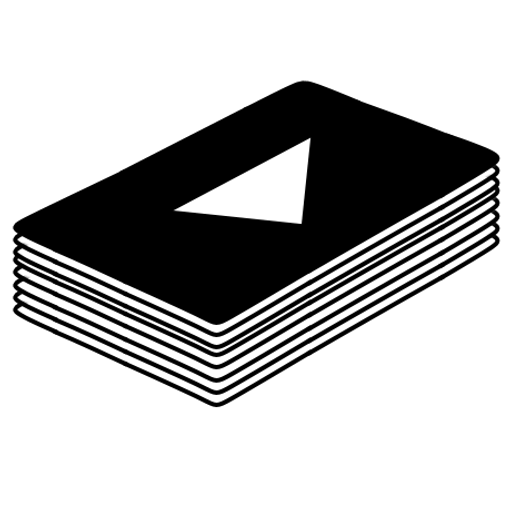
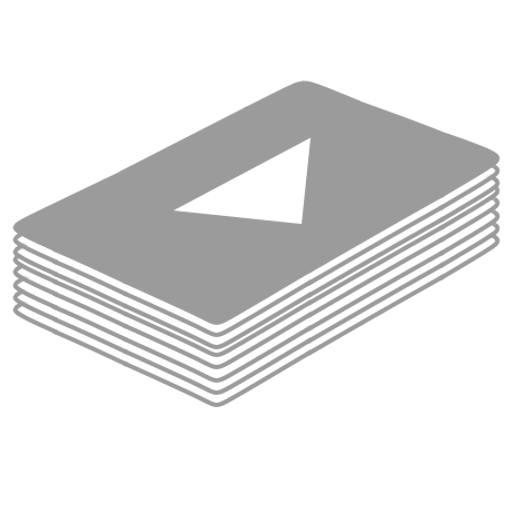
Changed images to be more clear

Changed region(s): [[0.0, 0.1562, 1.0, 0.8125]]

diff --git a/files/styles/StyleMain.css b/files/styles/StyleMain.css
@@ -57,16 +57,44 @@ Z-Indices
 	align-items: center;
 }
 
-#TAB_VIDEO {
-	background-image: url("../res/img/Video_Pause.png");
+#TAB_VIDEO.Playing {
+	background-image: url("../res/img/Video_Play.png");
+}
+
+#TAB_VIDEO.Playing:hover {
+	background-image: url("../res/img/Video_Play_Hover.png");
+}
+
+#TAB_VIDEO.Playing + .TooltipBase::after {
+	content: "Playing";
+}
+
+#TAB_VIDEO.Paused {
+	background-image: url("../res/img/Video_Paused.png");
+}
+
+#TAB_VIDEO.Paused:hover {
+	background-image: url("../res/img/Video_Paused_Hover.png");
+}
+
+#TAB_VIDEO.Paused + .TooltipBase::after {
+	content: "Paused";
 }
 
 #TAB_PLAYLIST {
 	background-image: url("../res/img/Playlist.png");
 }
 
+#TAB_PLAYLIST:hover {
+	background-image: url("../res/img/Playlist_Hover.png");
+}
+
 #TAB_SETTINGS {
 	background-image: url("../res/img/Settings.png");
+}
+
+#TAB_SETTINGS:hover {
+	background-image: url("../res/img/Settings_Hover.png");
 }
 
 .TooltipContainer {
@@ -90,7 +118,7 @@ Z-Indices
 	white-space: nowrap;
 }
 
-.TooltipBase::after {
+.TooltipBase::before {
 	content: " ";
 	position: absolute;
 	border-width: 0.2rem;
@@ -103,10 +131,10 @@ Z-Indices
 	left: 105%;
 }
 
-.TooltipRight::after {
+.TooltipRight::before {
 	top: 50%;
 	right: 100%;
-	margin-top: -0.2rem; /* Negative of .TooltipBase::after border-width */
+	margin-top: -0.2rem; /* Negative of .TooltipBase::before border-width */
 }
 
 .TooltipContainer:hover .TooltipBase {
@@ -126,7 +154,7 @@ Z-Indices
 	height: 2.5rem;
 	padding: 0.3rem;
 	margin: 0;
-	background-blend-mode: darken;
+	background-blend-mode: lighten;
 	background-size: 2.5rem 2.5rem;
 	background-repeat: no-repeat;
 	background-position: center;
@@ -171,7 +199,7 @@ Z-Indices
 	height: 1.5rem;
 	padding: 0.3rem;
 	margin: 0;
-	background-blend-mode: darken;
+	background-blend-mode: lighten;
 	background-size: 2rem 1.5rem;
 	background-repeat: no-repeat;
 	background-position: center;

diff --git a/index.html b/index.html
@@ -34,8 +34,8 @@
 		<div id="INNER_CONTENT">
 			<div id="TABS">
 				<div class="TooltipContainer">
-					<div class="Option" id="TAB_VIDEO"></div>
-					<div class="TooltipBase TooltipRight">Current Video | <div id="VIDEO_STATUS">Playing</div></div>
+					<div class="Option Paused" id="TAB_VIDEO"></div>
+					<div class="TooltipBase TooltipRight">Current Video | </div>
 				</div>
 				<div class="TooltipContainer">
 					<div class="Option" id="TAB_PLAYLIST"></div>
